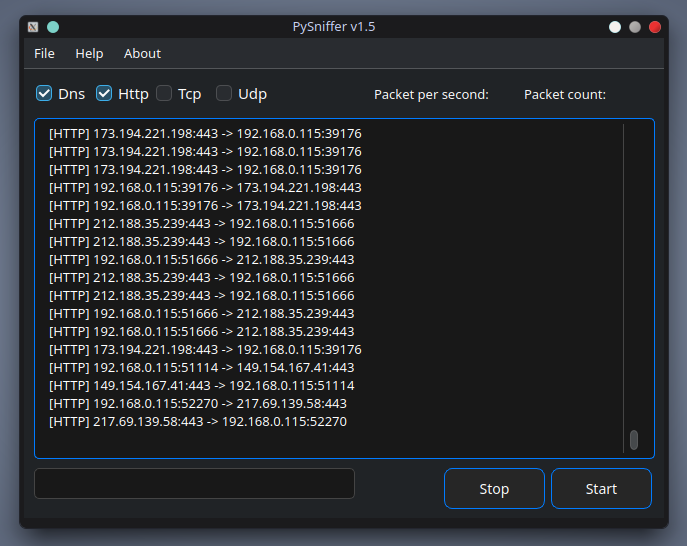
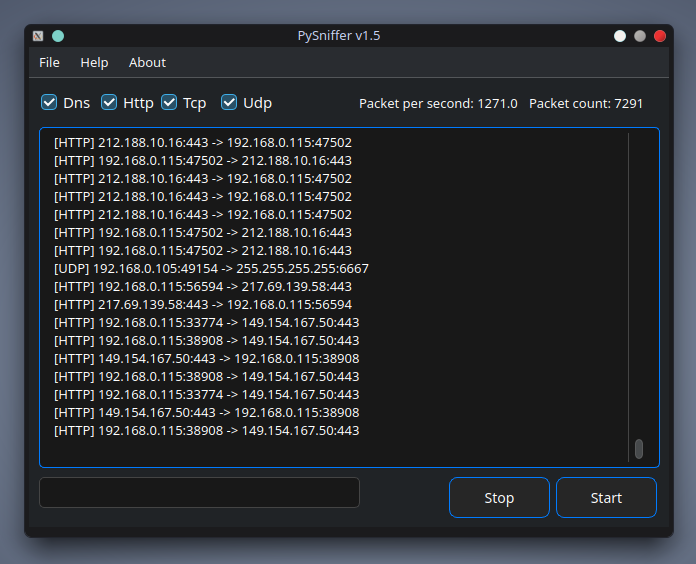
Update to v1.6: added packet counter and PPS stats

Changed region(s): [[0.0306, 0.0, 0.9782, 1.0]]

diff --git a/PySniffer.py b/PySniffer.py
@@ -53,7 +53,7 @@ class Ui_MainWindow(object):
         self.plainTextEdit = QtWidgets.QPlainTextEdit(parent=self.centralwidget)
         self.plainTextEdit.setGeometry(QtCore.QRect(10, 50, 621, 341))
         self.plainTextEdit.setObjectName("plainTextEdit")
-        
+
 
         self.pushButton = QtWidgets.QPushButton(parent=self.centralwidget)
         self.pushButton.setGeometry(QtCore.QRect(527, 400, 101, 41))
@@ -95,7 +95,7 @@ class Ui_MainWindow(object):
         self.label.setGeometry(QtCore.QRect(500, 10, 131, 31))
         self.label.setObjectName("label")
         self.label_2 = QtWidgets.QLabel(parent=self.centralwidget)
-        self.label_2.setGeometry(QtCore.QRect(350, 10, 190, 31))
+        self.label_2.setGeometry(QtCore.QRect(330, 10, 190, 31))
         self.label_2.setObjectName("label_2")
         self.plainTextEdit = QtWidgets.QPlainTextEdit(parent=self.centralwidget)
         self.plainTextEdit.setGeometry(QtCore.QRect(10, 50, 621, 341))
@@ -124,18 +124,34 @@ class Ui_MainWindow(object):
         self.menubar.addAction(self.menuFile.menuAction())
         self.menubar.addAction(self.menuHelp.menuAction())
         self.menubar.addAction(self.menuAbout.menuAction())
+        self.threadsnif = snifferthread()
+        self.threadsnif.textupdate.connect(self.addlog)
+        self.threadsnif.countupdate.connect(self.updatelabel)
+        self.stattimer = QtCore.QTimer()
+        self.stattimer.timeout.connect(self.calculate)
+        self.lastpacket = 0
+
+
+        self.pushButton.clicked.connect(self.startsniff)
+        self.pushButton_2.clicked.connect(self.stopsniff)
 
         self.retranslateUi(MainWindow)
         QtCore.QMetaObject.connectSlotsByName(MainWindow)
-        self.threadsnif = snifferthread()
-        self.threadsnif.textupdate.connect(self.addlog)
-        self.pushButton.clicked.connect(self.startsniff)
-        self.pushButton_2.clicked.connect(self.stopsniff)
-        MainWindow.setCentralWidget(self.centralwidget)
-        self.retranslateUi(MainWindow)
+
+    def calculate(self):
+        current = self.threadsnif.counter
+        diff = current - self.lastpacket
+        pps = diff / 2
+        _translate = QtCore.QCoreApplication.translate
+        self.label_2.setText(_translate("MainWindow", f"Packet per second: {pps:.1f}"))
+        self.lastpacket = current
+        
 
     def startsniff(self):
         if not self.threadsnif.isRunning():
+            self.lastpacket = 0
+            self.label_2.setText("Packet per second: 0.0")
+            self.stattimer.start(2000)
             self.plainTextEdit.appendPlainText("Launch sniffing...")
             self.isrun = True
             self.threadsnif.showdns = self.checkBox.isChecked()
@@ -146,12 +162,21 @@ class Ui_MainWindow(object):
             self.threadsnif.start()
 
     def stopsniff(self):
+        self.lastpacket = 0
         self.threadsnif.stop()
+        self.stattimer.stop()
         if self.isrun:
-            self.plainTextEdit.appendPlainText("End sniffing...")
+            QtCore.QTimer.singleShot(500, self.sent)
             self.isrun = False
         else:
             return
+        
+    def sent(self):
+        self.plainTextEdit.appendPlainText("End sniffing...")
+
+    def updatelabel(self, count):
+        _translate = QtCore.QCoreApplication.translate
+        self.label.setText(_translate("MainWindow", f"Packet count: {count}"))
 
     def addlog(self, text):
         self.plainTextEdit.appendPlainText(text)
@@ -166,8 +191,8 @@ class Ui_MainWindow(object):
         self.checkBox_2.setText(_translate("MainWindow", "Http"))
         self.checkBox_3.setText(_translate(_translate("MainWindow", "Tcp"), "Tcp"))
         self.checkBox_4.setText(_translate(_translate("MainWindow", "Udp"), "Udp"))
-        self.label.setText(_translate("MainWindow", "Packet count: "))
-        self.label_2.setText(_translate("MainWindow", "Packet per second:"))
+        self.label.setText(_translate("MainWindow", "Packet count: 0"))
+        self.label_2.setText(_translate("MainWindow", "Packet per second: 0"))
         self.menuFile.setTitle(_translate("MainWindow", "File"))
         self.menuHelp.setTitle(_translate("MainWindow", "Help"))
         self.menuAbout.setTitle(_translate("MainWindow", "About"))
@@ -179,6 +204,7 @@ class Ui_MainWindow(object):
 
 class snifferthread(QtCore.QThread):
     textupdate = QtCore.pyqtSignal(str)
+    countupdate = QtCore.pyqtSignal(int)
 
     def __init__(self):
         super().__init__()
@@ -188,6 +214,7 @@ class snifferthread(QtCore.QThread):
         self.showhttp = False
         self.showtcp = False
         self.showudp = False
+        self.counter = 0
 
     def run(self):
         self.running = True
@@ -196,13 +223,16 @@ class snifferthread(QtCore.QThread):
 
     def stop(self):
         self.running = False
+        self.counter = 0
 
     def ppacket(self, pkt):
         if not pkt.haslayer(IP):
             return
 
+
+
         proto = "IP/Other"
-        
+
         if pkt.haslayer(DNS):
             proto = "DNS"
         elif pkt.haslayer(TCP):
@@ -223,7 +253,7 @@ class snifferthread(QtCore.QThread):
         elif proto == "UDP" and self.showudp:
             show = True
         elif proto == "IP/Other":
-            show = False 
+            show = False
 
         if show:
             src_port = ""
@@ -237,6 +267,8 @@ class snifferthread(QtCore.QThread):
 
             info = f"[{proto}] {pkt[IP].src}{src_port} -> {pkt[IP].dst}{dst_port}"
             self.textupdate.emit(info)
+            self.counter += 1
+            self.countupdate.emit(self.counter)
 
 if __name__ == "__main__":
     import sys
